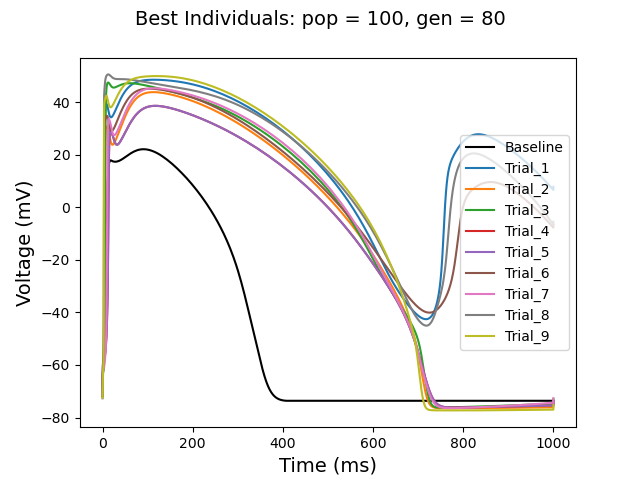
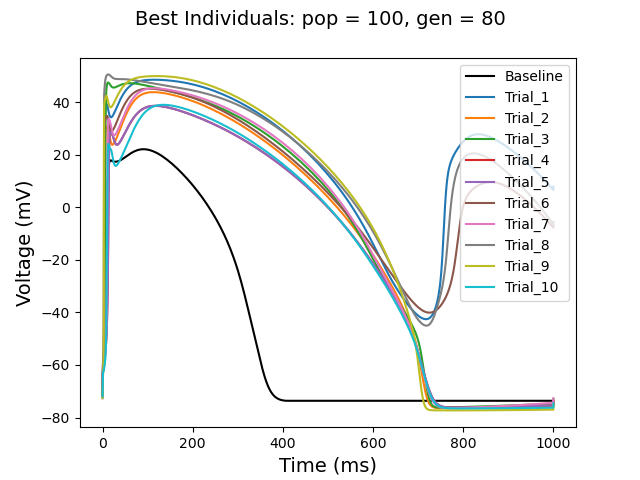
new

diff --git a/plot_GA.py b/plot_GA.py
@@ -3,8 +3,9 @@ import myokit
 import matplotlib.pyplot as plt
 import pandas as pd
 import numpy as np
-from functions import baseline_run, plot_GA
+from functions import baseline_run, plot_GA, plot_cond
 import seaborn as sns
+from math import log10
 
 #%%
 ###### PLOT BEST INDIVIDUALS FROM HCM_GA ALGORITHM #######
@@ -66,6 +67,12 @@ ind_9 = ind_9.to_dict('index')
 t9, v9 = plot_GA(ind_9)
 plt.plot(t9, v9, label = 'Trial_9')
 
+ind_10 = pd.read_excel('Best_ind_10.xlsx')
+ind_10 = ind_10.to_dict('index')
+
+t10, v10 = plot_GA(ind_10)
+plt.plot(t10, v10, label = 'Trial_10')
+
 plt.legend()
 plt.ylabel('Voltage (mV)', fontsize=14)
 plt.xlabel('Time (ms)', fontsize=14)
@@ -113,6 +120,10 @@ err_9 = pd.read_excel('Errors_9.xlsx')
 best_err_9 = list(err_9['Best Error'])
 plt.plot(gen, best_err_9,'*', label = 'Trial_9')
 
+err_10 = pd.read_excel('Errors_10.xlsx')
+best_err_10 = list(err_10['Best Error'])
+plt.plot(gen, best_err_10,'*', label = 'Trial_10')
+
 plt.legend()
 plt.ylabel('Error', fontsize=14)
 plt.xlabel('Generation', fontsize=14)
@@ -120,3 +131,42 @@ plt.suptitle('Best Errors', fontsize=14)
 plt.ylim(0,8000)
 plt.savefig('Plot_Best_Errors.png')
 plt.show()
+
+#%% 
+########## PLOT CONDUCTANCES ############
+pop = [ind_1, ind_2, ind_3, ind_4, ind_5, ind_6, ind_7, ind_8, ind_9, ind_10]
+trials = []
+
+for i in list(range(0,10)):
+    trials.append(f'Trial_{i}')
+
+keys = [k for k in pop[0][0].keys()]
+empty_arrs = [[] for i in range(len(keys))]
+all_ind_dict = dict(zip(keys, empty_arrs))
+
+for ind in pop:
+        for k, v in ind[0].items():
+            all_ind_dict[k].append(v)
+
+curr_x = 0
+n = 0
+
+for k, conds in all_ind_dict.items():
+    for i, g in enumerate(conds):
+        g = log10(g)
+        x = curr_x + np.random.normal(0, .01)
+        plt.scatter(x, g) #label = trials[n])
+
+    curr_x += 1
+
+    n += 1
+
+curr_x = 0
+
+plt.hlines(0, -.5, (len(keys)-.5), colors='grey', linestyle='--')
+plt.xticks([i for i in range(0, len(keys))], ['GKs', 'GCaL', 'GKr', 'GNa', 'Gto', 'GK1', 'Gf','Gleak'], fontsize=10)
+plt.ylim(log10(0.1), log10(10))
+plt.ylabel('Log10 Conductance', fontsize=14)
+plt.legend()
+plt.show()
+

diff --git a/functions.py b/functions.py
@@ -124,3 +124,23 @@ def build_pop(pop):
         ind_list.append(ind)
     
     return ind_list
+
+#%%
+
+def plot_cond(ind, lab):
+
+    curr_x = 0
+    keys = [k for k, v in ind[0].items()]
+
+    for k, g in ind[0].items():
+        g = log10(g)
+        x = curr_x + np.random.normal(0, .01)
+        plt.scatter(x, g, label = f'Trial_{lab}')
+        curr_x += 1
+
+    curr_x = 0
+
+    plt.xticks([i for i in range(0, len(keys))], ['GKs', 'GCaL', 'GKr', 'GNa', 'Gto', 'GK1', 'Gf','Gleak'], fontsize=10)
+    plt.ylim(log10(0.1), log10(10))
+    plt.ylabel('Log10 Conductance', fontsize=14)
+    plt.legend()

diff --git a/HCM_GA_KernikUpdate.py b/HCM_GA_KernikUpdate.py
@@ -259,7 +259,9 @@ def get_feature_errors(ind):
     dvdt_max = np.max(np.diff(v[0:30])/np.diff(t[0:30]))
 
     ap_features['dvdt_max'] = dvdt_max
-    ap_features['peak'] = max_p
+    peak_v = find_peaks(v, distance=100)
+    peak = v[peak_v[0][0]]
+    ap_features['peak'] = peak
     ap_features['apa']= apa
 
     for apd_pct in [50, 90]:
